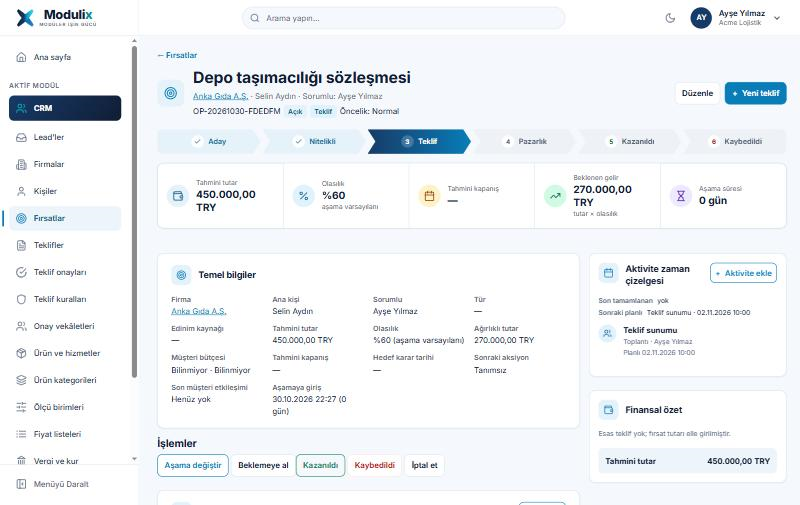
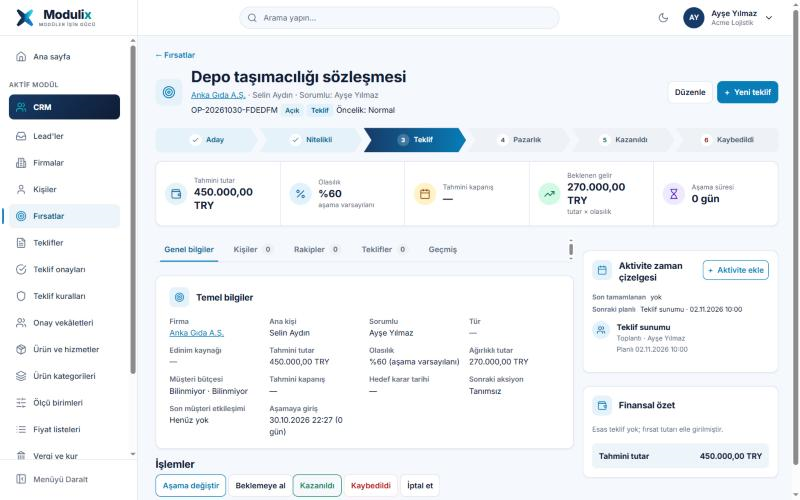
Fırsat detayı sekmeli gösterime geçti (TabBar + TabState)
Kullanıcı isteği: fırsat detayı kartlı ama tek sayfaydı. Firma ve kişi
sayfalarındaki TabBar deseniyle beş sekme kuruldu: Genel bilgiler (temel
bilgiler, işlemler, detaylar, ürün / hizmet kalemleri), Kişiler, Rakipler,
Teklifler (teklif izni yoksa sekme hiç eklenmez), Geçmiş (aşama ve durum
tarihçesi + değişiklik geçmişi). Sayı rozetleri yüklenen listelerden gelir;
sağ panel (aktivite zaman çizelgesi, finansal özet) her sekmede görünür.
Veri yükleme ve işlemler değişmedi; yalnızca işaretleme.

Doğrulama: Release derleme 0 hata; tarayıcıda sekme geçişleri (1440px) ve
telefonda taşma olmadığı (390px) kontrol edildi. Belgeler güncellendi.

diff --git a/docs/design-system/form-standards.md b/docs/design-system/form-standards.md
@@ -84,7 +84,7 @@ Durum yalnızca renkle anlatılmaz: hata iletisi metin olarak görünür, zorunl
 
 ## Sekmeler
 
-Kayıt sayfalarında bölümler `TabBar` + `TabState` ile sekmelere ayrılır (Firma, Kişi). Kurallar:
+Kayıt sayfalarında bölümler `TabBar` + `TabState` ile sekmelere ayrılır (Firma, Kişi, Fırsat). Kurallar:
 
 - Sekme listesi yetkiye göre kurulur; görme izni olmayan bölümün sekmesi hiç eklenmez (sunucu yine denetler).
 - Sekme ilk seçildiğinde çizilir ve verisini o an yükler; başka sekmeye geçince DOM'da gizli kalır. Böylece açık bir düzenleme formu sekme değiştirince kaybolmaz.
